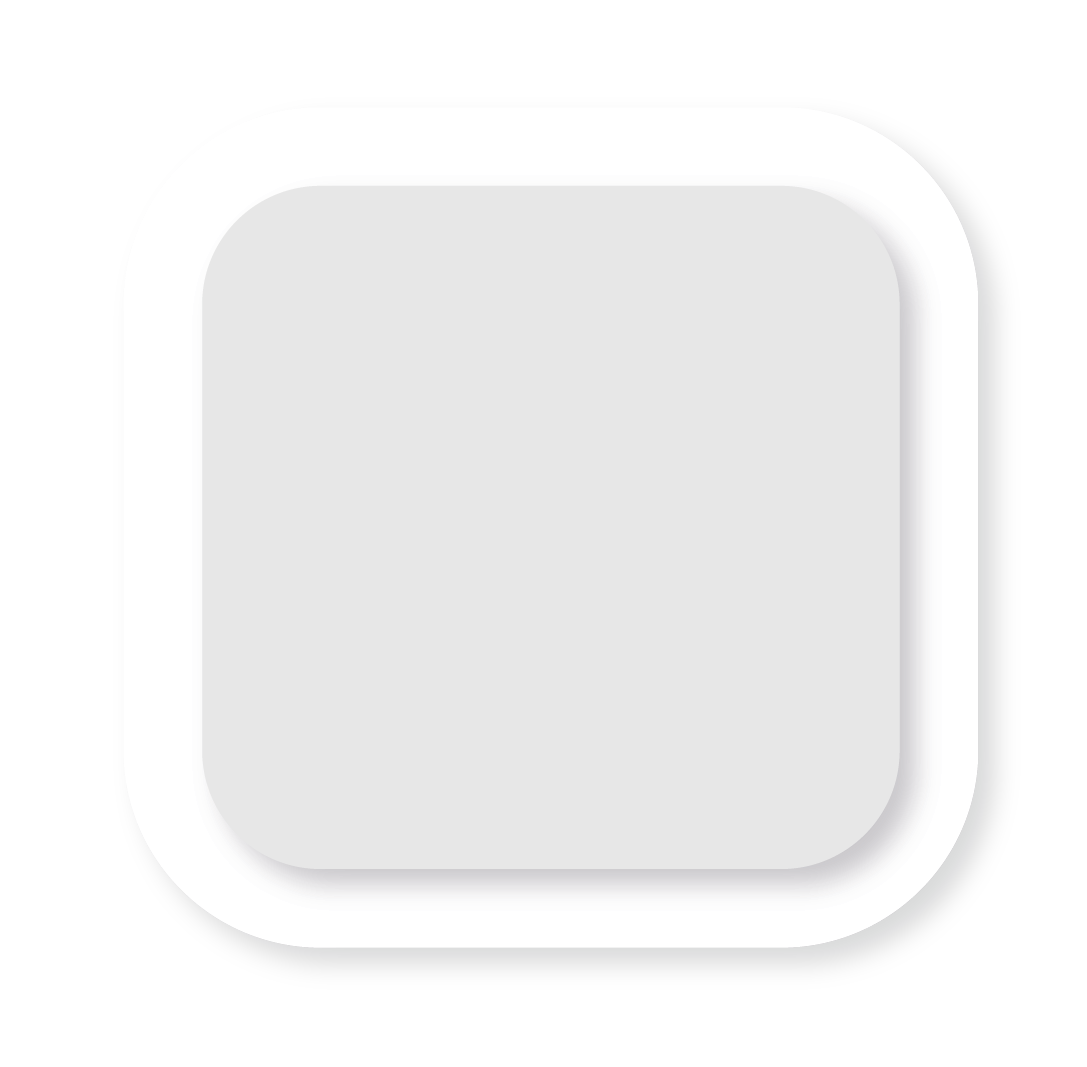
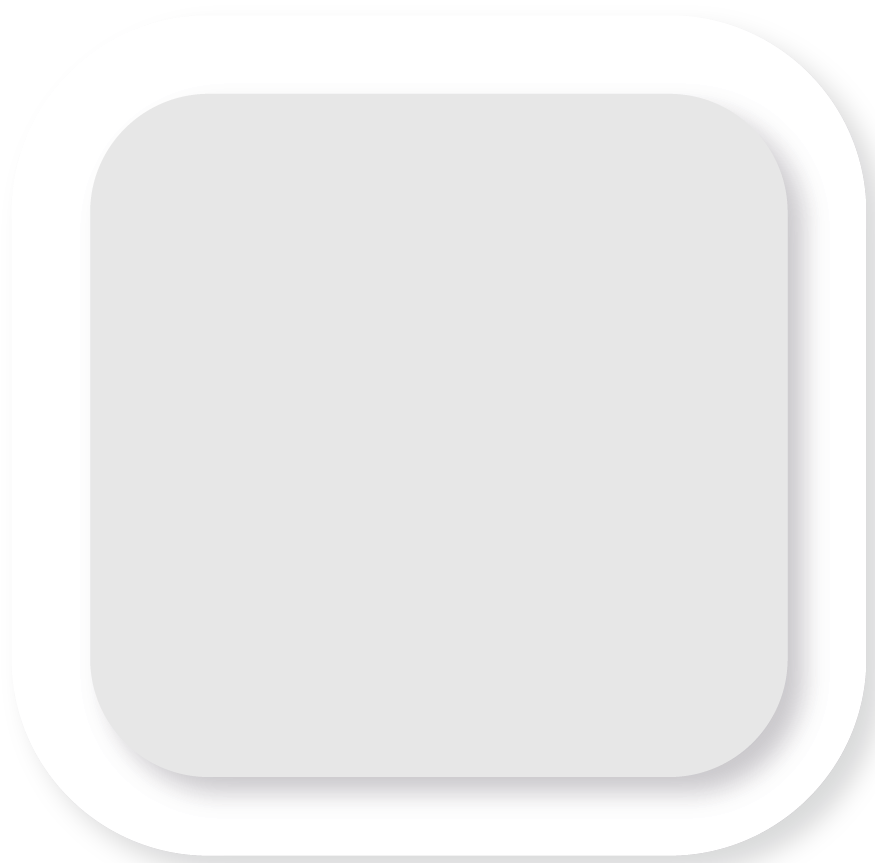
implementación de nuevos cambios

diff --git a/css/styles.css b/css/styles.css
@@ -7,6 +7,7 @@
  main {
      width: 100vw;
      height: 100vh;
+     overflow: hidden;
  }
  
  @media screen and (min-width: 902px) and (min-height: 600px) {
@@ -40,94 +41,101 @@
          height: auto;
      }
      #header-buttons {
-         width: 80%;
-         height: 30%;
+         width: 70%;
+         height: 20%;
          position: relative;
-         top: -100%;
-         left: 20%;
-         display: flex;
-         align-items: center;
-     }
-     .principal-buttons {
-         width: 40%;
-         height: 75%;
-         background-image: url(../images/fondo-buttons.png);
-         background-repeat: no-repeat;
-         background-size: 100%;
-         overflow: visible;
+         top: -95%;
+         left: 15%;
          display: flex;
          align-items: center;
          justify-content: space-around;
-         border-radius: 1em;
+     }
+     .principal-buttons {
+         width: 30%;
+         height: 100%;
+     }
+     .principal-buttons img {
+         width: 100%;
+         height: 90%;
      }
      #ATS_Home_Pantry {
-         width: 30%;
-         height: 70%;
+         position: relative;
+         top: -80%;
+         left: 10%;
+         width: 35%;
+         height: 60%;
      }
      #ATS_Home_Pantry img {
          width: 100%;
          height: 100%;
      }
      #ATS_RetailScanning {
-         width: 30%;
-         height: 70%;
+         position: relative;
+         top: -140%;
+         left: 55%;
+         width: 35%;
+         height: 60%;
      }
      #ATS_RetailScanning img {
          width: 100%;
          height: 100%;
      }
      .individual-buttons {
-         width: 40%;
-         height: 75%;
+         width: 60%;
+         height: 100%;
          display: flex;
          align-items: center;
-         justify-content: space-around;
-         border-radius: 1em;
+         justify-content: space-between;
      }
      #ATS_RetailServices {
-         width: 39%;
-         height: 95%;
-         background-image: url(../images/ATS_BOTONES-04.png);
-         background-repeat: no-repeat;
-         background-position: center;
-         background-size: 125%;
-         display: flex;
-         align-items: center;
-         justify-content: center;
+         width: 25%;
+         height: 100%;
      }
-     #ATS_RetailServices img {
-         width: 70%;
-         height: 70%;
+     .frist-child {
+         width: 100%;
+         height: 83%;
+     }
+     .last-child {
+         z-index: 3;
+         width: 65%;
+         height: 67%;
+         position: relative;
+         top: -79%;
+         left: 18%;
      }
      #ATS_MoneyMarket {
-         width: 39%;
-         height: 95%;
-         background-image: url(../images/ATS_BOTONES-04.png);
-         background-repeat: no-repeat;
-         background-position: center;
-         background-size: 125%;
-         display: flex;
-         align-items: center;
-         justify-content: center;
-     }
-     #ATS_MoneyMarket img {
-         width: 70%;
-         height: 70%;
+         width: 25%;
+         height: 100%;
      }
      #ATS_Panelistas {
-         width: 39%;
-         height: 95%;
-         background-image: url(../images/ATS_BOTONES-04.png);
-         background-repeat: no-repeat;
-         background-position: center;
-         background-size: 125%;
+         width: 25%;
+         height: 100%;
+     }
+     .footer-buttons {
+         position: absolute;
+         top: 85%;
+         left: 5%;
+         width: 40%;
+         height: auto;
          display: flex;
          align-items: center;
-         justify-content: center;
+         justify-content: space-between;
      }
-     #ATS_Panelistas img {
-         width: 70%;
-         height: 70%;
+     #ATS_Operaciones_Retail {
+         width: 47%;
+         height: auto;
+     }
+     #ATS_Operaciones_Retail img {
+         width: 100%;
+         height: auto;
+     }
+     #ATS_Operaciones_Home {
+         width: 47%;
+         height: auto;
+     }
+     #ATS_Operaciones_Home img {
+         width: 100%;
+         height: auto;
      }
  }
  /* #background {

diff --git a/index.html b/index.html
@@ -14,34 +14,49 @@
         <section id="header-buttons">
 
             <article class="principal-buttons">
+                <img src="./images/fondo-buttons.png" alt="">
                 <div id="ATS_Home_Pantry" style="cursor: pointer;"><img src="images/ATS_Botones_HomePantry.png"></div>
                 <div id="ATS_RetailScanning" style="cursor: pointer;"><img src="images/ATS_Botones_RetailScanning.png"></div>
             </article>
             <article class="individual-buttons">
-                <div id="ATS_RetailServices" style="cursor: pointer;"><img src="images/ATS_Botones_RetailServices.png"></div>
-                <div id="ATS_MoneyMarket" style="cursor: pointer;"><img src="images/ATS_BOTONES_MoneyMarket.png"></div>
-                <div id="ATS_Panelistas" style="cursor: pointer;"><img src="images//ats_panelisrta.png"></div>
+
+                <div id="ATS_RetailServices" style="cursor: pointer;">
+                    <img class="frist-child boton1" src="./images/ATS_BOTONES-04.png" alt="">
+                    <img class="last-child" src="images/ATS_Botones_RetailServices.png"></div>
+
+                <div id="ATS_MoneyMarket" style="cursor: pointer;">
+                    <img class="frist-child boton2" src="./images/ATS_BOTONES-04.png" alt="">
+                    <img class="last-child money" src="images/ATS_BOTONES_MoneyMarket.png"></div>
+
+                <div id="ATS_Panelistas" style="cursor: pointer;">
+                    <img class="frist-child boton3" src="./images/ATS_BOTONES-04.png" alt="">
+                    <img class="last-child panelistas" src="images//ats_panelisrta.png"></div>
 
             </article>
 
 
 
-            <div id="ATSBOTONES04" style="cursor: pointer;"><img src="images/ATSBOTONES04.png"></div>
-            <div id="ATSBOTONES05" style="cursor: pointer;"><img src="images/ATSBOTONES05.png"></div>
+            <!-- <div id="ATSBOTONES04" style="cursor: pointer;"><img src="images/ATSBOTONES04.png"></div>
+            <div id="ATSBOTONES05" style="cursor: pointer;"><img src="images/ATSBOTONES05.png"></div> -->
         </section>
         <section id="body-buttons">
             <img class="titlle1" src="images/Titulo1.png">
             <img class="tittle2" src="images/Titulo2.png">
             <img class="titlle3" src="images/Titulo3.png">
         </section>
-        <!-- <div id="IMAGEN08"><img src="images/IMAGEN-08.jpg"></div>
-        
-       
-        <div id="ATSBOTONES06" style="cursor: pointer;"><img src="images/ATSBOTONES06.png"></div>
-        <div id="ATSBOTONES07" style="cursor: pointer;"><img src="images/ATSBOTONES07.png"></div> -->
+
+        <footer class="footer-buttons">
+            <div id="ATS_Operaciones_Retail" style="cursor: pointer;">
+                <img src="./images/ATSBOTONES06.png" alt="">
+            </div>
+            <div id="ATS_Operaciones_Home" style="cursor: pointer;">
+                <img src="./images/ATSBOTONES07.png" alt="">
+            </div>
+        </footer>
+
     </main>
 
-    </div>
+
 </body>
 
 </html>
